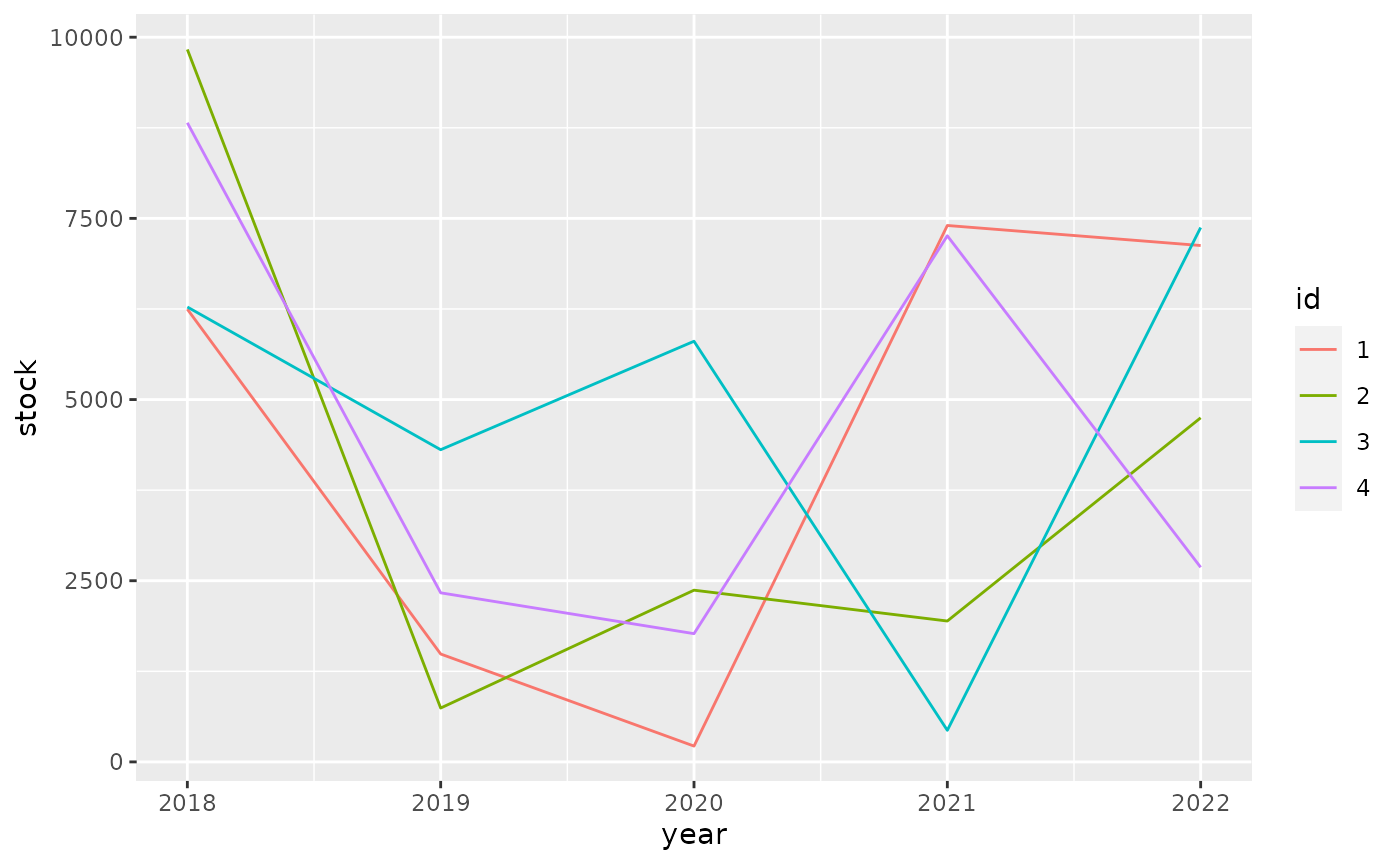
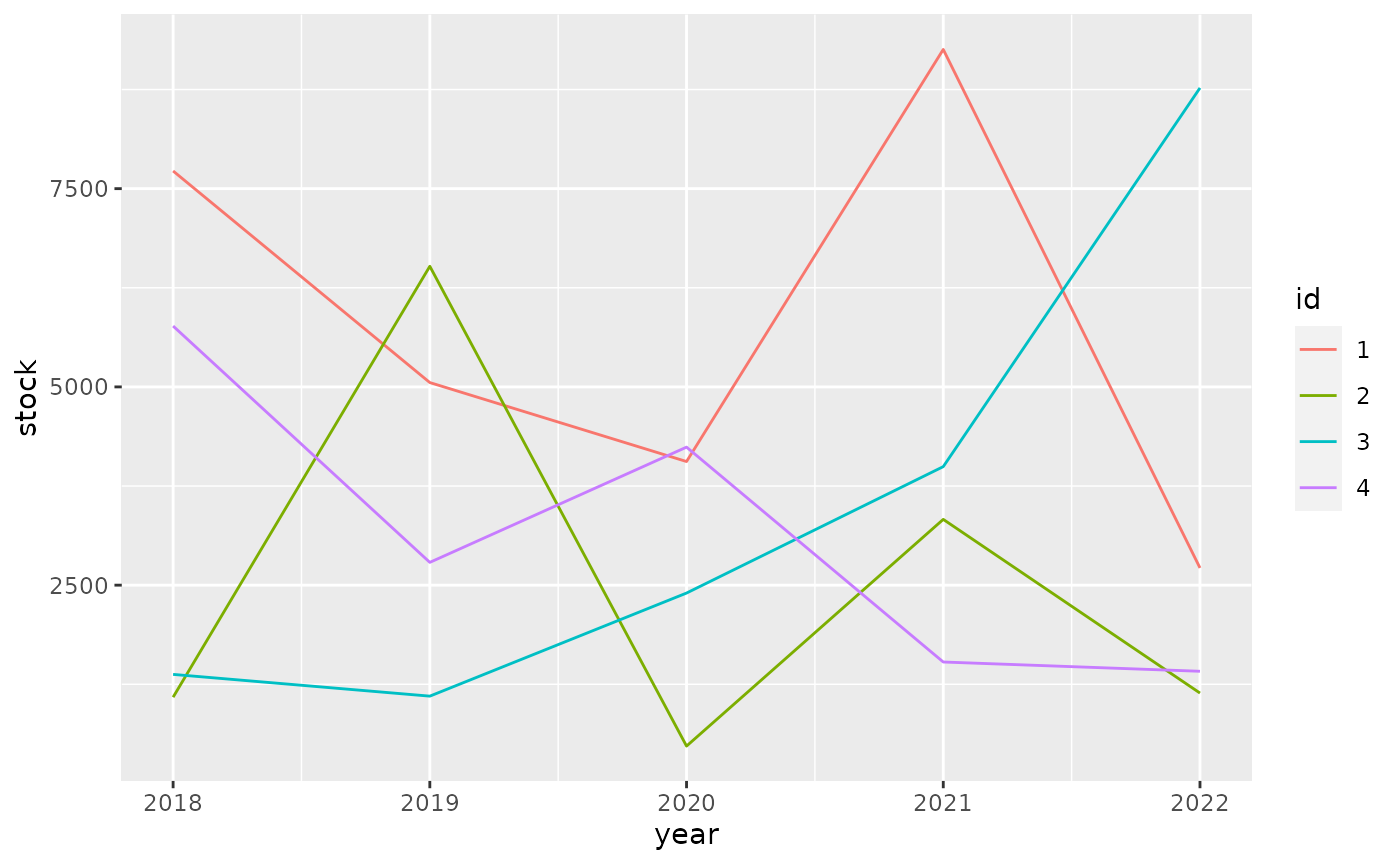
Built site for tibble: 3.1.3.9000@2be6af2

diff --git a/dev/articles/formats.html b/dev/articles/formats.html
@@ -224,10 +224,10 @@
 <span class="co">#&gt; # A tibble: 4 × 6</span>
 <span class="co">#&gt;   id       `2018`    `2019`    `2020`    `2021`    `2022`</span>
 <span class="co">#&gt;   &lt;fct&gt; &lt;dbl:fmt&gt; &lt;dbl:fmt&gt; &lt;dbl:fmt&gt; &lt;dbl:fmt&gt; &lt;dbl:fmt&gt;</span>
-<span class="co">#&gt; 1 1     $6,247.09 $1,488.78   $218.31 $7,402.00 $7,125.40</span>
-<span class="co">#&gt; 2 2     $9,831.21   $743.27 $2,369.58 $1,943.92 $4,748.10</span>
-<span class="co">#&gt; 3 3     $6,277.19 $4,307.85 $5,804.56   $435.84 $7,373.60</span>
-<span class="co">#&gt; 4 4     $8,819.39 $2,333.17 $1,769.60 $7,259.88 $2,685.13</span></code></pre></div>
+<span class="co">#&gt; 1 1     $7,722.82 $5,054.71 $4,058.96 $9,255.36 $2,717.08</span>
+<span class="co">#&gt; 2 2     $1,087.29 $6,521.01   $470.76 $3,329.42 $1,139.33</span>
+<span class="co">#&gt; 3 3     $1,374.73 $1,100.44 $2,400.38 $3,994.64 $8,770.24</span>
+<span class="co">#&gt; 4 4     $5,767.51 $2,787.36 $4,240.47 $1,530.94 $1,414.01</span></code></pre></div>
 <p>For ggplot2 we need to do <a href="https://github.com/tidyverse/ggplot2/pull/4065" class="external-link">some work</a> to show apply the formatting to the scales.</p>
 <div class="sourceCode" id="cb6"><pre class="downlit sourceCode r">
 <code class="sourceCode R"><span class="kw"><a href="https://rdrr.io/r/base/library.html" class="external-link">library</a></span><span class="op">(</span><span class="va"><a href="https://ggplot2.tidyverse.org" class="external-link">ggplot2</a></span><span class="op">)</span>
@@ -238,10 +238,10 @@
   <span class="fu"><a href="https://ggplot2.tidyverse.org/reference/geom_path.html" class="external-link">geom_line</a></span><span class="op">(</span><span class="op">)</span></code></pre></div>
 <p><img src="formats_files/figure-html/unnamed-chunk-7-1.png" width="700"></p>
 <p>It pays off to specify formatting very early in the process. The diagram below shows the principal stages of data analysis and exploration from “R for data science”.</p>
-<div id="htmlwidget-e8ee39ddd36e2798e0b9" style="width:700px;height:432.632880098888px;" class="DiagrammeR html-widget"></div>
-<script type="application/json" data-for="htmlwidget-e8ee39ddd36e2798e0b9">{"x":{"diagram":"graph TD\n  Import --> Tidy\n  Tidy --> Transform\n  Transform --> Visualize\n  Visualize --> Communicate\n  Visualize --> Model\n  Model -.-> Transform"},"evals":[],"jsHooks":[]}</script><p>The subsequent diagram adds data formats, communication options, and explicit data formatting. The original r4ds transitions are highlighted in bold. There are two principal options where to apply formatting for results: right before communicating them, or right after importing.</p>
-<div id="htmlwidget-c152440d3324baf9c505" style="width:700px;height:432.632880098888px;" class="DiagrammeR html-widget"></div>
-<script type="application/json" data-for="htmlwidget-c152440d3324baf9c505">{"x":{"diagram":"graph TD\n  .csv --> Import\n  API --> Import\n  DBI --> Import\n  dbplyr --> Import\n  Import -.-> Format[Format for analysis]\n  Format -.-> Tidy\n\n  subgraph r4ds\n  Import ==> Tidy\n  Tidy ==> Transform\n  Transform ==> Visualize\n  Visualize ==> Model\n  Model -.-> Transform\n  Visualize ==> Communicate\n  end\n\n  Visualize -.-> FormatComm[Format for communication]\n  FormatComm -.-> Communicate\n\n  FormatComm -- Apply formatting early --> Format\n\n  dbplyr -.-> Tidy\n  dbplyr -.-> Transform\n  dbplyr -.-> Visualize\n\n  Communicate --> gt\n  Communicate --> ggplot2\n  Communicate --> DT\n  Communicate --> plotly"},"evals":[],"jsHooks":[]}</script><p>Applying formatting early in the process gives the added benefit of showing the data in a useful format during the “Tidy”, “Transform”, and “Visualize” stages. For this to be useful, we need to ensure that the formatting options applied early:</p>
+<div id="htmlwidget-e482a098ff77e7f050de" style="width:700px;height:432.632880098888px;" class="DiagrammeR html-widget"></div>
+<script type="application/json" data-for="htmlwidget-e482a098ff77e7f050de">{"x":{"diagram":"graph TD\n  Import --> Tidy\n  Tidy --> Transform\n  Transform --> Visualize\n  Visualize --> Communicate\n  Visualize --> Model\n  Model -.-> Transform"},"evals":[],"jsHooks":[]}</script><p>The subsequent diagram adds data formats, communication options, and explicit data formatting. The original r4ds transitions are highlighted in bold. There are two principal options where to apply formatting for results: right before communicating them, or right after importing.</p>
+<div id="htmlwidget-ca94c13db2c0ecf77845" style="width:700px;height:432.632880098888px;" class="DiagrammeR html-widget"></div>
+<script type="application/json" data-for="htmlwidget-ca94c13db2c0ecf77845">{"x":{"diagram":"graph TD\n  .csv --> Import\n  API --> Import\n  DBI --> Import\n  dbplyr --> Import\n  Import -.-> Format[Format for analysis]\n  Format -.-> Tidy\n\n  subgraph r4ds\n  Import ==> Tidy\n  Tidy ==> Transform\n  Transform ==> Visualize\n  Visualize ==> Model\n  Model -.-> Transform\n  Visualize ==> Communicate\n  end\n\n  Visualize -.-> FormatComm[Format for communication]\n  FormatComm -.-> Communicate\n\n  FormatComm -- Apply formatting early --> Format\n\n  dbplyr -.-> Tidy\n  dbplyr -.-> Transform\n  dbplyr -.-> Visualize\n\n  Communicate --> gt\n  Communicate --> ggplot2\n  Communicate --> DT\n  Communicate --> plotly"},"evals":[],"jsHooks":[]}</script><p>Applying formatting early in the process gives the added benefit of showing the data in a useful format during the “Tidy”, “Transform”, and “Visualize” stages. For this to be useful, we need to ensure that the formatting options applied early:</p>
 <ul>
 <li>give a good user experience for analysis
 <ul>

diff --git a/dev/articles/types.html b/dev/articles/types.html
@@ -357,7 +357,7 @@
 #&gt; $ factor        &lt;fct&gt; A
 #&gt; $ ordered       &lt;ord&gt; a
 #&gt; $ Date          &lt;date&gt; 2021-07-21
-#&gt; $ POSIXt        &lt;dttm&gt; 2021-07-21 12:00:01
+#&gt; $ POSIXt        &lt;dttm&gt; 2021-07-21 12:01:26
 #&gt; $ difftime      &lt;drtn&gt; 1 secs
 #&gt; $ hms           &lt;time&gt; 00:00:01
 #&gt; $ integer64     &lt;int64&gt; 10000000000
@@ -393,7 +393,7 @@
 <span class="co">#&gt;             "sym"</span>
 <span class="co">#&gt;         }, typeof(x))</span>
 <span class="co">#&gt; }</span>
-<span class="co">#&gt; &lt;bytecode: 0x55d97dfd4c20&gt;</span>
+<span class="co">#&gt; &lt;bytecode: 0x55c98f3dae80&gt;</span>
 <span class="co">#&gt; &lt;environment: namespace:pillar&gt;</span></code></pre></div>
 </div>
   </div>
